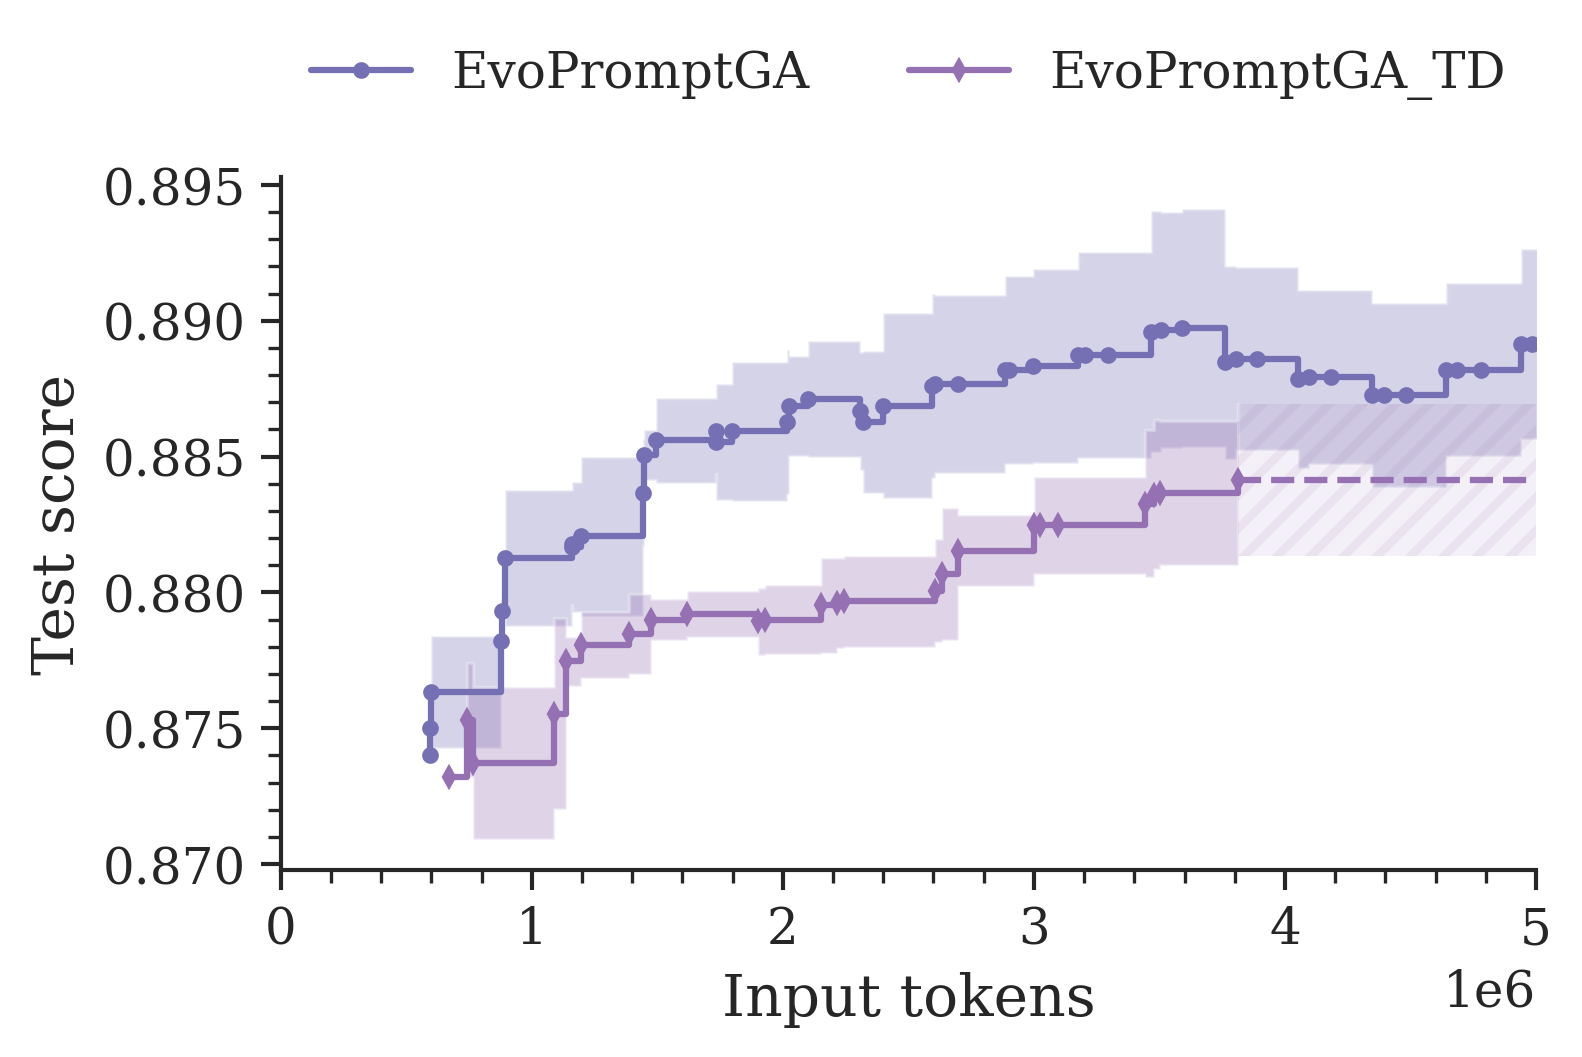
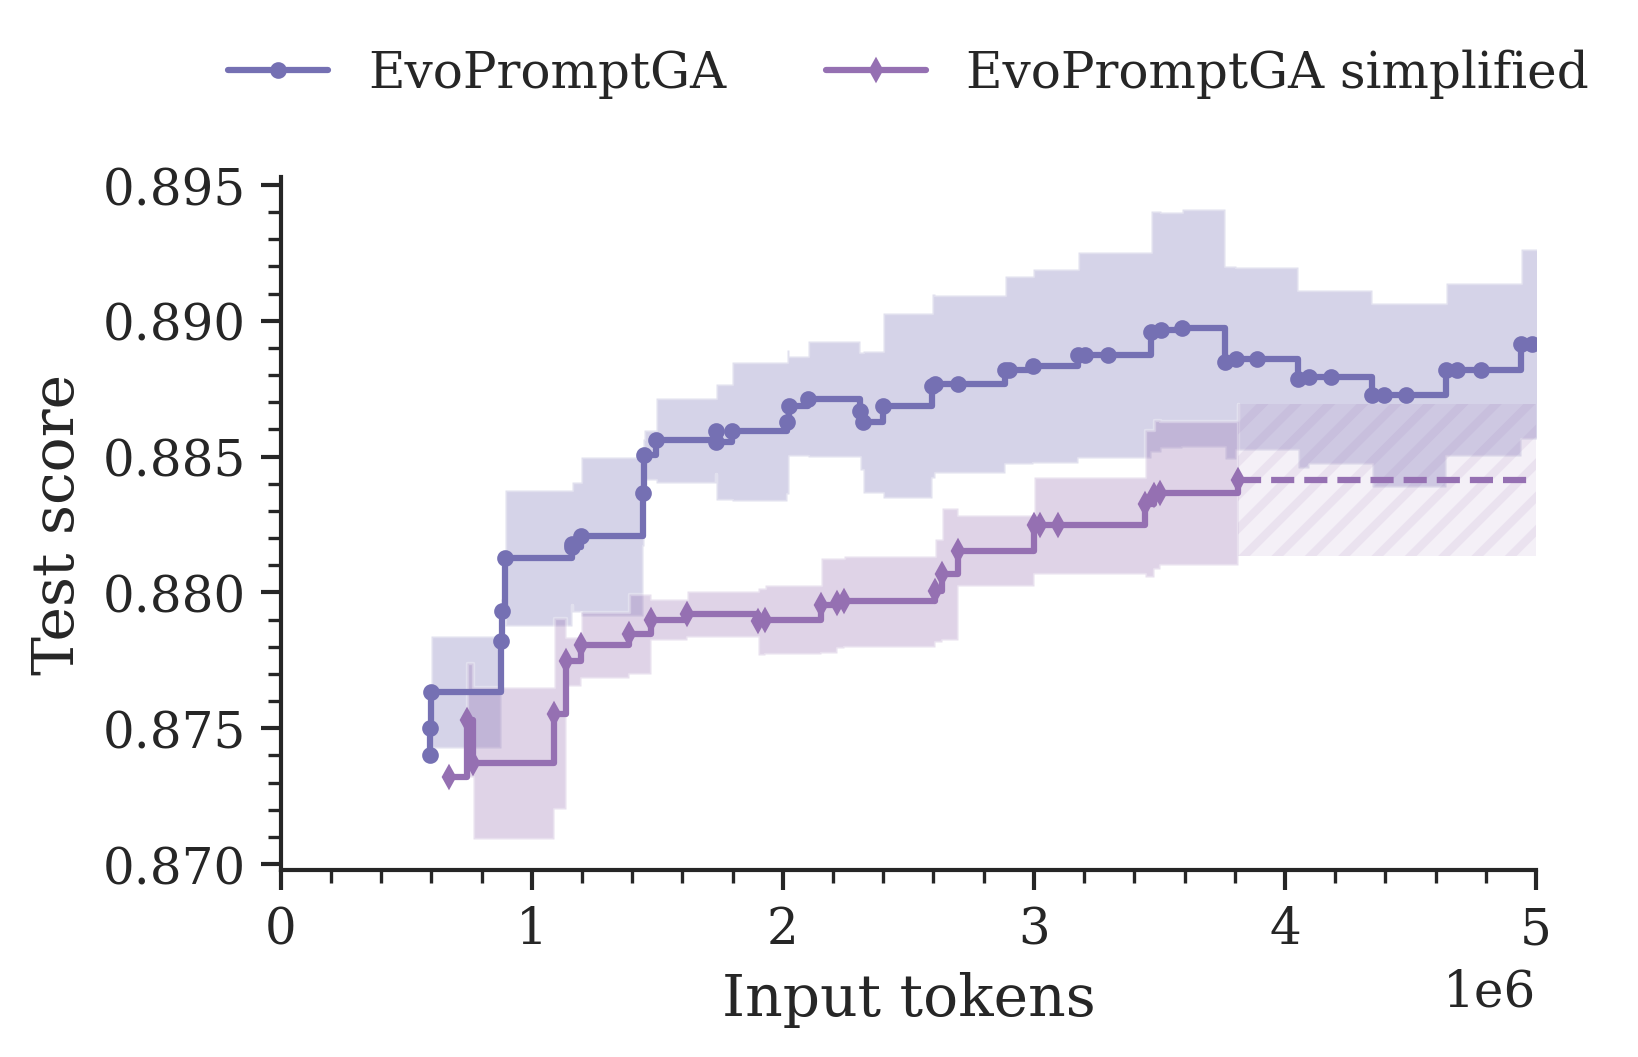
change labels on ablation evo td and add path prefix

diff --git a/scripts/plot_creation.py b/scripts/plot_creation.py
@@ -312,6 +312,7 @@ if __name__ == "__main__":
                 dataset,
                 "llama",
                 ["nan", "EvoPromptGA", "nan", "EvoPromptGA_TD"],
+                labels=["nan", "EvoPromptGA", "nan", "EvoPromptGA simplified"],
                 plot_stddev=True,
                 plot_seeds=False,
                 x_col="input_tokens_cum",
@@ -336,7 +337,6 @@ if __name__ == "__main__":
                 "CAPO w/ generic init",
                 "EvoPromptGA_generic_init",
             ],
-            path_prefix=".",
             plot_stddev=True,
             plot_seeds=False,
             x_col="input_tokens_cum",
@@ -361,7 +361,6 @@ if __name__ == "__main__":
                 "CAPO w/ generic init",
                 "EvoPromptGA_generic_init",
             ],
-            path_prefix=".",
             plot_stddev=True,
             plot_seeds=False,
             x_col="input_tokens_cum",
@@ -386,7 +385,6 @@ if __name__ == "__main__":
                 "CAPO w/ generic init",
                 "EvoPromptGA w/ generic init",
             ],
-            path_prefix=".",
             plot_stddev=True,
             plot_seeds=False,
             x_col="input_tokens_cum",
